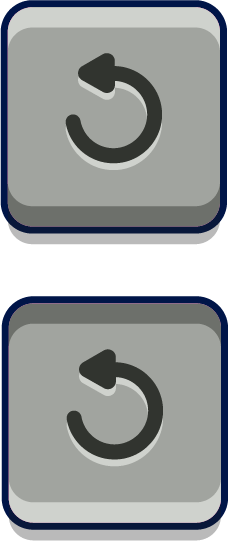
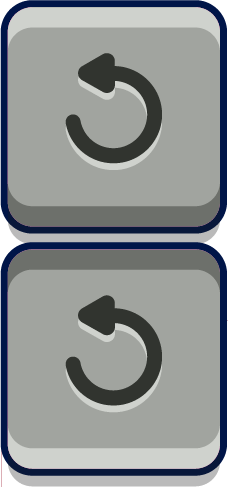
update

diff --git a/src/games/game_26/components/AnswerArea.js b/src/games/game_26/components/AnswerArea.js
@@ -25,16 +25,17 @@ export default class AnswerArea extends Phaser.GameObjects.Container {
 
         }
 
-
         scene.add.existing(this);
 
-        this.paintPhraseLabels(scene, this.question.preposition, this.question.phrases);
+        this.answerPanel = new AnswerPanel(scene, 1000, 900);
+        this.paintPhraseLabels(scene, this.question.preposition, this.question.phrases, this.answerPanel);
 
-        
-        new AnswerPanel(scene,1000,900);
+        this.addOnClickedEventListener(this.answerPanel);
+
+        this.add[this.answerPanel];
     }
 
-    paintPhraseLabels(scene, preposition, phrases) {
+    paintPhraseLabels(scene, preposition, phrases, answerPanel) {
 
         const points = [{ x: 1278, y: 178 }, { x: 1696, y: 175 }, { x: 1278, y: 355 }, { x: 1699, y: 390 }, { x: 1500, y: 527 }];
 
@@ -51,20 +52,22 @@ export default class AnswerArea extends Phaser.GameObjects.Container {
         // console.log({ phraseLabelBoxPoints: phraseLabelBoxPoints });
 
         if (prepositionLabelBoxPoint != null) {
-            this.add(new PrepositionLabelBox(scene, prepositionLabelBoxPoint, preposition, this.textStyle));
+            this.add(new PrepositionLabelBox(scene, prepositionLabelBoxPoint, preposition, this.textStyle, answerPanel));
         }
 
         if (phraseLabelBoxPoints != null) {
             for (let index = 0; index < phrases.length; index++) {
                 const phrase = phrases[index];
-                this.add(new PhraseLabelBox(scene, phraseLabelBoxPoints[index], phrase, this.textStyle));
+                this.add(new PhraseLabelBox(scene, phraseLabelBoxPoints[index], phrase, this.textStyle, answerPanel));
             }
         }
 
     }
 
-    // paintAnswerPanel(scene){
-
-    // }
+    addOnClickedEventListener(gameObject) {
+        gameObject.on('clickedEvent', (value) => {
+            console.log(value);
+        })
+    }
 
 }

diff --git a/src/games/game_26/scenes/GameScene.js b/src/games/game_26/scenes/GameScene.js
@@ -19,7 +19,7 @@ export default class GameScene extends BasicScene {
     constructor() {
         super('Game');
 
-        this.playLayer = undefined
+        this.gameLayer = undefined
         this.questionNumberList = []
 
         this.questionIndex = undefined
@@ -86,7 +86,7 @@ export default class GameScene extends BasicScene {
      * 绘制GameScene的所有Ui元素
      */
     paintGameScene() {
-        this.playLayer = this.add.layer().setDepth(1);
+        this.gameLayer = this.add.layer().setDepth(1);
         this.backgroundLayer = this.add.layer().setDepth(0);
 
         let eggTwistingMachineAnimation = new GameSprite(this, 960, 540, 'eggTwistingMachineTexture');
@@ -94,11 +94,10 @@ export default class GameScene extends BasicScene {
 
         let answerArea = new AnswerArea(this,this.generateQuestion());
 
-
         let exitButton = new ExitButton(this, 120, 135);
 
         this.backgroundLayer.add([this.buildBg('backgroundGamePlay'), eggTwistingMachineAnimation, answerArea]);
-        this.playLayer.add([exitButton]);
+        this.gameLayer.add([exitButton]);
     }
 
     paintGameSuccess(doll) {
@@ -112,7 +111,7 @@ export default class GameScene extends BasicScene {
         });
 
         let targetPosition = JSON.parse(localStorage.getItem('targetPosition'));
-        this.playLayer.add(new GameSprite(this, targetPosition.x + doll.x, targetPosition.y + doll.y - 500, "gameSuccessAnimation"));
+        this.gameLayer.add(new GameSprite(this, targetPosition.x + doll.x, targetPosition.y + doll.y - 500, "gameSuccessAnimation"));
         this.sound.add('starEffectSound').play();
     }
 
@@ -153,7 +152,7 @@ export default class GameScene extends BasicScene {
 
         this.sound.add('electricShockEffectSound').play();
 
-        this.playLayer.add(errorSprite);
+        this.gameLayer.add(errorSprite);
     }
 
 

diff --git a/src/games/game_26/scenes/PreloaderScene.js b/src/games/game_26/scenes/PreloaderScene.js
@@ -86,7 +86,7 @@ export default class PreloaderScene extends BasicScene {
         this.load.spritesheet('retryButton', require('../assets/images/button_retry.png'), { frameWidth: 410, frameHeight: 163.5 });
         this.load.spritesheet('gameProgressExitButton', require('../assets/images/button_exit_progress_game.png'), { frameWidth: 186, frameHeight: 209 });
         this.load.spritesheet('gameEndExitButton', require('../assets/images/button_game_end_exit.png'), { frameWidth: 410, frameHeight: 163.5 });
-        this.load.spritesheet('resetButton', require('../assets/images/button_reset.png'), { frameWidth: 228, frameHeight: 247 });
+        this.load.spritesheet('resetButton', require('../assets/images/button_reset.png'), { frameWidth: 228, frameHeight: 241 });
         this.load.spritesheet('confirmButton',require('../assets/images/button_confirm.png'),{frameWidth: 386, frameHeight: 384});
 
         this.preloadFromArr({ img: imageFiles, atlas: atlasFiles, sound: soundFiles });

diff --git a/src/games/game_26/components/PrepositionLabelBox.js b/src/games/game_26/components/PrepositionLabelBox.js
@@ -3,16 +3,20 @@ import Label from './Label';
 
 export default class PrepositionLabelBox extends Label {
 
-    constructor(scene, point, phrase, style) {
+    constructor(scene, point, phrase, style, answerPanel) {
 
 
         super(scene, point.x, point.y, phrase, 'backgroundLabelPreposition', style);
+        this.phrase = phrase;
+        this.answerPanel = answerPanel;
 
         this.create();
     }
 
     onDownClicked() {
         console.log("on down");
+        // console.log(this.answerPanel);
+        this.answerPanel.emit('clickedEvent', this.phrase);
     }
 
     onUpClicked() {

diff --git a/src/games/game_26/components/PhraseLabelBox.js b/src/games/game_26/components/PhraseLabelBox.js
@@ -3,16 +3,21 @@ import Label from './Label';
 
 export default class PhraseLabelBox extends Label {
 
-    constructor(scene, point, phrase, style) {
+    constructor(scene, point, phrase, style, answerPanel) {
 
 
         super(scene, point.x, point.y, phrase, 'backgroundLabelPhrase', style);
+
+        this.phrase = phrase;
+        this.answerPanel = answerPanel;
 
         this.create();
     }
 
     onDownClicked() {
         console.log("on down");
+        // console.log(this.answerPanel);
+        this.answerPanel.emit('clickedEvent', this.phrase);
     }
 
     onUpClicked() {

diff --git a/src/games/game_26/components/AnswerPanel.js b/src/games/game_26/components/AnswerPanel.js
@@ -13,7 +13,7 @@ export default class AnswerPanel extends Phaser.GameObjects.Container {
 
         // console.log("texture: %o", this.texture.displayWidth);
         this.confirmButton = new ConfirmButton(scene, 800, 15);
-        this.resetButton = new ResetButton(scene, 650, 0);
+        this.resetButton = new ResetButton(scene, 650, 0,'Game');
         this.labelText = this.scene.make.text({
             x: -this.texture.displayWidth/2,
             y: -10,

diff --git a/src/games/game_26/components/ResetButton.js b/src/games/game_26/components/ResetButton.js
@@ -5,6 +5,7 @@ export default class ResetButton extends Phaser.GameObjects.Container {
     constructor(scene, x, y,targetScene) {
 
         super(scene, x, y);
+        
         this.targetScene = targetScene;
         scene.add.existing(this);
 
@@ -35,6 +36,6 @@ export default class ResetButton extends Phaser.GameObjects.Container {
     }
 
     onUpClicked() {
-
+        this.scene.scene.restart();
     }
 }
